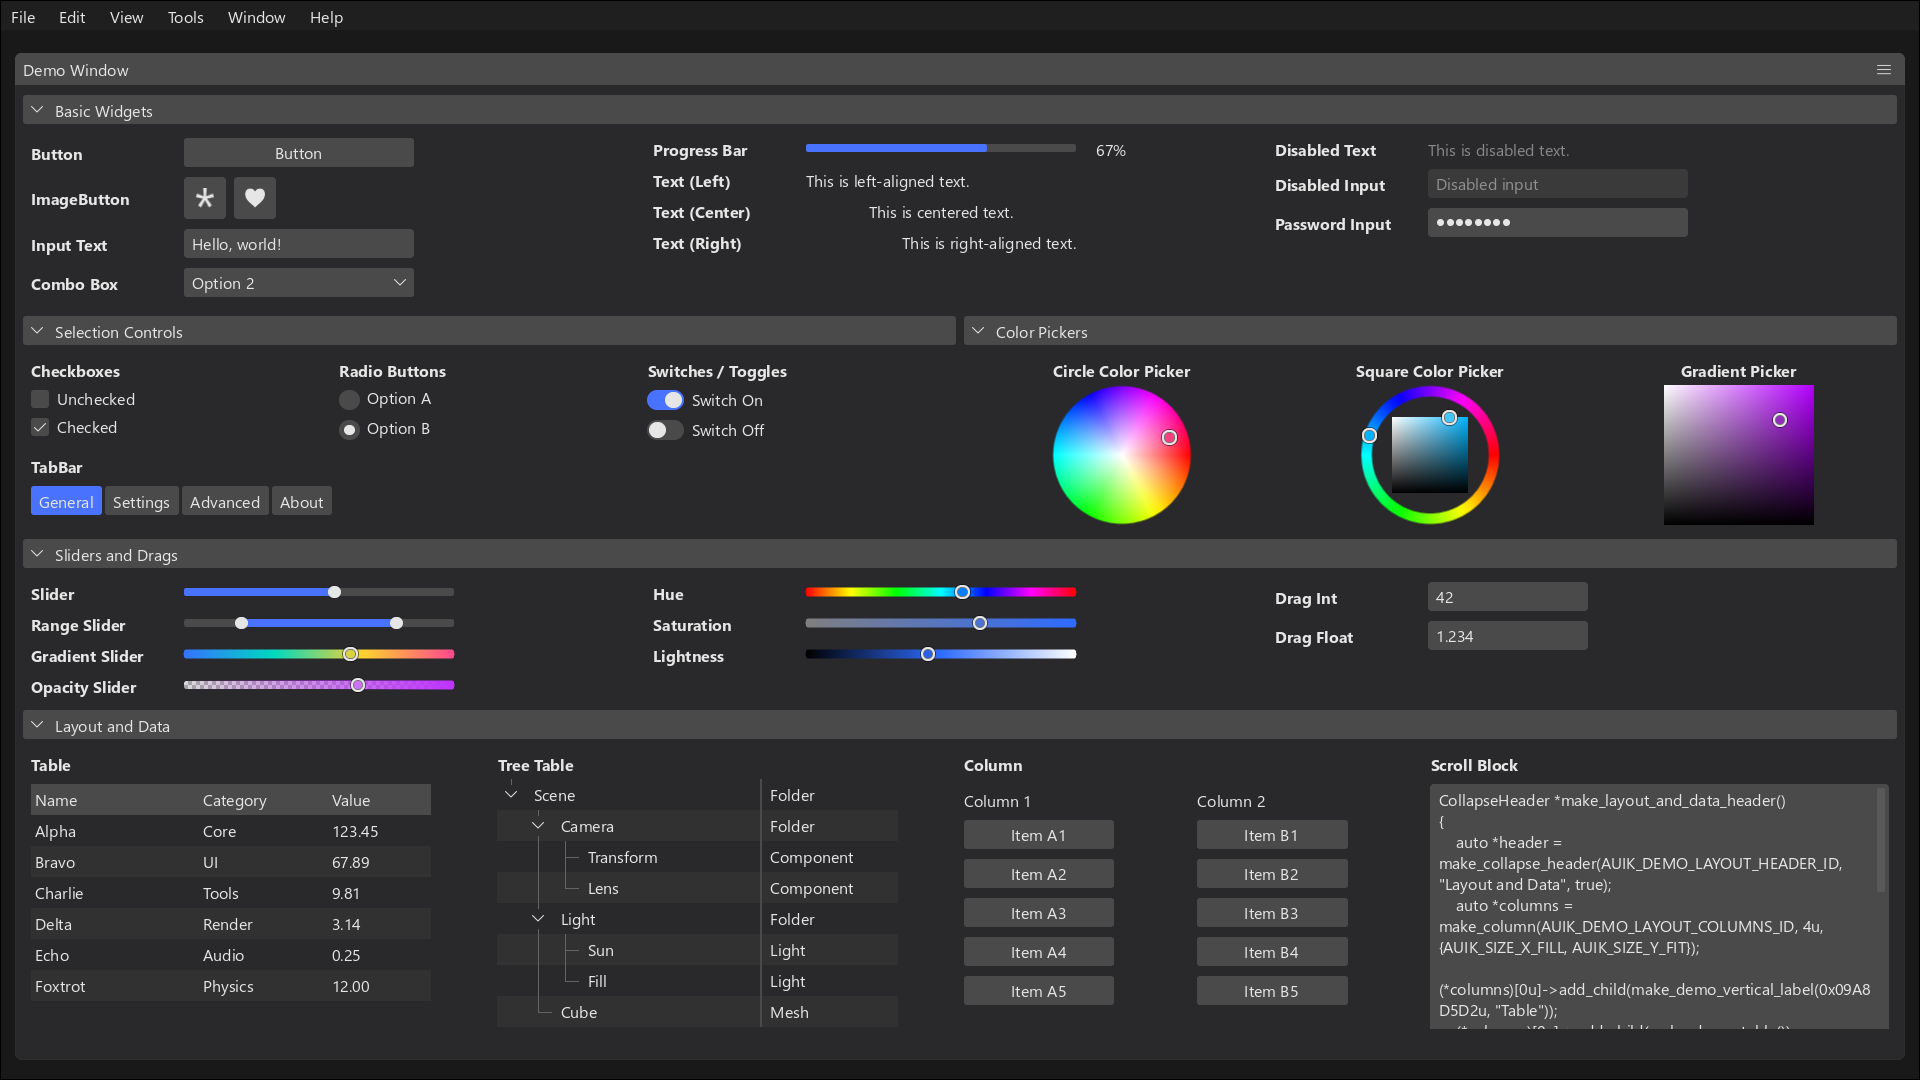
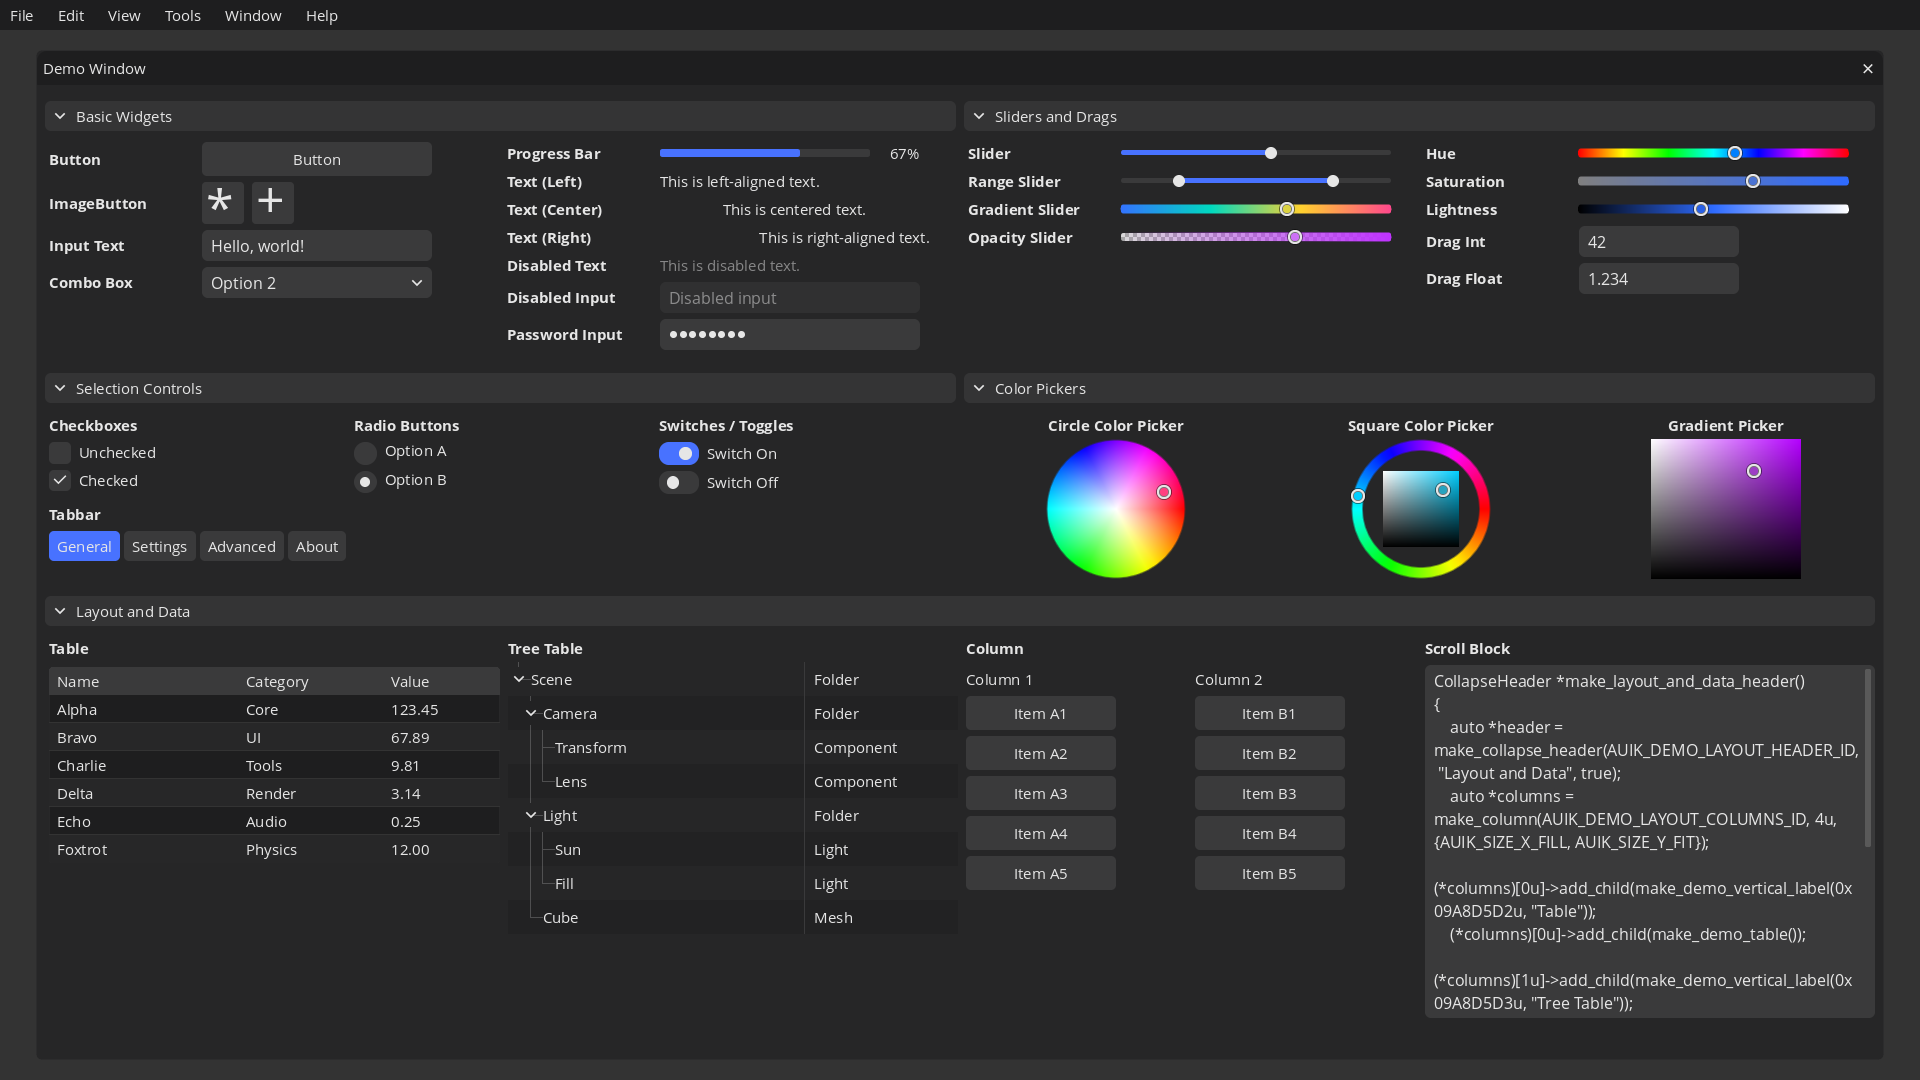
Adapt the widget showcase to Auik ASD styles

diff --git a/src/demo.cpp b/src/demo.cpp
@@ -23,7 +23,6 @@
 #include <auik/widgets/window.hpp>
 
 #define AUIK_DEMO_MAIN_MENU_BAR_ID     0x09A8D50Du
-#define AUIK_DEMO_WINDOW_ID            0x09A8D50E
 #define AUIK_DEMO_BASIC_HEADER_ID      0x09A8D510u
 #define AUIK_DEMO_BASIC_COLUMNS_ID     0x09A8D511u
 #define AUIK_DEMO_SECTION_COLUMNS_ID   0x09A8D512u
@@ -36,7 +35,7 @@
 #define AUIK_DEMO_LAYOUT_HEADER_ID     0x09A8D519u
 #define AUIK_DEMO_LAYOUT_COLUMNS_ID    0x09A8D51Au
 #define AUIK_DEMO_LABEL_WIDTH          145.0f
-#define AUIK_DEMO_ROW_INLINE_SPACING   8.0f
+#define AUIK_DEMO_CONTROLS_COLUMNS_ID  0xE5404971u
 
 namespace auik
 {
@@ -62,7 +61,7 @@ namespace auik
         {
             auto *row = make_block(id);
             row->set_size({270.0f, AUIK_SIZE_Y_FIT});
-            row->add_child(make_text(id ^ AUIK_TAG_TEXT, text),
+            row->add_child(make_text(id ^ AUIK_TAG_TEXT, text, AUIK_SIZE_FIT),
                            make_layout_flags(ChildLayout::block, align, VAlign::center));
             return row;
         }
@@ -78,8 +77,8 @@ namespace auik
         void add_vertical_labeled_control(Block *slot, u32 label_id, StringView label, Widget *control,
                                           HAlign label_align = HAlign::left)
         {
-            const auto label_layout = make_layout_flags(ChildLayout::block, label_align, VAlign::center);
-            const auto control_layout = make_layout_flags(ChildLayout::block, label_align, VAlign::center);
+            const auto label_layout = make_layout_flags(ChildLayout::block, label_align, VAlign::top);
+            const auto control_layout = make_layout_flags(ChildLayout::block, label_align, VAlign::top);
             slot->add_child(make_demo_vertical_label(label_id, label), label_layout);
             slot->add_child(control, control_layout);
         }
@@ -88,7 +87,7 @@ namespace auik
         {
             const auto inline_center = make_layout_flags(ChildLayout::inline_, HAlign::left, VAlign::center);
             const auto center = make_layout_flags(ChildLayout::block, HAlign::left, VAlign::center);
-            auto *label = make_text(text_id, text, AUIK_SIZE_FIT, default_text_layout_flags(), TextAnchorY::middle);
+            auto *label = make_text(text_id, text, AUIK_SIZE_FIT);
             label->set_tight_content_height(true);
             slot->add_child(control, inline_center);
             slot->add_child(label, center);
@@ -121,7 +120,7 @@ namespace auik
             const auto inline_center = make_layout_flags(ChildLayout::inline_, HAlign::left, VAlign::center);
             const auto center = make_layout_flags(ChildLayout::block, HAlign::left, VAlign::center);
             slot->add_child(make_demo_label(0x09A8D533u, "Progress Bar"), inline_center);
-            slot->add_child(make_progress_bar(0x09A8D531u, 0.67f, 0.0f, 1.0f, 270.0f), inline_center);
+            slot->add_child(make_progress_bar(0x09A8D531u, 0.67f, 0.0f, 1.0f, 210.0f), inline_center);
             auto *progress_percent = make_text(0x09A8D532u, "67%", {48.0f, AUIK_SIZE_Y_FIT});
             progress_percent->set_style_tag(AUIK_STYLE_TAG_PROGRESS_PERCENT);
             slot->add_child(progress_percent, center);
@@ -151,10 +150,10 @@ namespace auik
         CollapseHeader *make_basic_widgets_header()
         {
             auto *header = make_collapse_header(AUIK_DEMO_BASIC_HEADER_ID, "Basic Widgets", true);
-            auto *columns = make_column(AUIK_DEMO_BASIC_COLUMNS_ID, 3u, {AUIK_SIZE_X_FILL, AUIK_SIZE_Y_FIT});
+            auto *columns = make_column(AUIK_DEMO_BASIC_COLUMNS_ID, 2u, {AUIK_SIZE_X_FILL, AUIK_SIZE_Y_FIT});
             make_basic_controls_column((*columns)[0u]);
             make_basic_status_column((*columns)[1u]);
-            make_basic_disabled_column((*columns)[2u]);
+            make_basic_disabled_column((*columns)[1u]);
             header->add_child(columns);
             return header;
         }
@@ -189,23 +188,25 @@ namespace auik
             make_selection_switch_column((*columns)[2u]);
             header->add_child(columns);
 
-            add_vertical_labeled_control(
-                header, 0x09A8D56Fu, "Tabbar",
-                make_tabbar(0x09A8D570u, {"General", "Settings", "Advanced", "About"}, TabbarFlagBits::none, {AUIK_SIZE_X_FILL, AUIK_SIZE_Y_FIT}));
+            add_vertical_labeled_control(header, 0x09A8D56Fu, "Tabbar",
+                                         make_tabbar(0x09A8D570u, {"General", "Settings", "Advanced", "About"},
+                                                     TabbarFlagBits::none, {AUIK_SIZE_X_FILL, AUIK_SIZE_Y_FIT}));
             return header;
         }
 
         void add_color_picker_column(Block *slot, u32 label_id, StringView label, Widget *picker)
-        { add_vertical_labeled_control(slot, label_id, label, picker, HAlign::center); }
+        {
+            add_vertical_labeled_control(slot, label_id, label, picker, HAlign::center);
+        }
 
         CollapseHeader *make_color_pickers_header()
         {
             auto *header = make_collapse_header(AUIK_DEMO_COLOR_HEADER_ID, "Color Pickers", true);
             auto *columns = make_column(AUIK_DEMO_COLOR_COLUMNS_ID, 3u, {AUIK_SIZE_X_FILL, AUIK_SIZE_Y_FIT});
             add_color_picker_column((*columns)[0u], 0x09A8D580u, "Circle Color Picker",
-                                    make_circle_color_picker(0x09A8D581u, 140.0f, {1.0f, 0.25f, 0.5f, 1.0f}));
+                                    make_circle_color_picker(0x09A8D581u, {1.0f, 0.25f, 0.5f, 1.0f}, 140.0f));
             add_color_picker_column((*columns)[1u], 0x09A8D582u, "Square Color Picker",
-                                    make_square_color_picker(0x09A8D583u, 140.0f, {0.25f, 0.78f, 1.0f, 1.0f}));
+                                    make_square_color_picker(0x09A8D583u, {0.25f, 0.78f, 1.0f, 1.0f}, 140.0f));
             add_color_picker_column(
                 (*columns)[2u], 0x09A8D584u, "Gradient Picker",
                 make_gradient_color_picker(0x09A8D585u, {0.78f, 0.25f, 1.0f, 1.0f}, {150.0f, 140.0f}));
@@ -266,24 +267,22 @@ namespace auik
         {
             add_labeled_row(slot, 0x09A8D59Eu, "Drag Int",
                             make_drag_int(0x09A8D59Fu, 42, 0, 100, 1.0f, {160.0f, AUIK_SIZE_Y_FIT}));
-            add_labeled_row(
-                slot, 0x09A8D5A0u, "Drag Float",
-                make_drag_float(0x09A8D5A1u, 1.234f, 0.0f, 10.0f, 0.01f, {160.0f, AUIK_SIZE_Y_FIT}));
+            add_labeled_row(slot, 0x09A8D5A0u, "Drag Float",
+                            make_drag_float(0x09A8D5A1u, 1.234f, 0.0f, 10.0f, 0.01f, {160.0f, AUIK_SIZE_Y_FIT}));
         }
 
         CollapseHeader *make_sliders_and_drags_header()
         {
             auto *header = make_collapse_header(AUIK_DEMO_SLIDERS_HEADER_ID, "Sliders and Drags", true);
-            auto *columns = make_column(AUIK_DEMO_SLIDERS_COLUMNS_ID, 3u, {AUIK_SIZE_X_FILL, AUIK_SIZE_Y_FIT});
+            auto *columns = make_column(AUIK_DEMO_SLIDERS_COLUMNS_ID, 2u, {AUIK_SIZE_X_FILL, AUIK_SIZE_Y_FIT});
             make_sliders_column((*columns)[0u]);
             make_hsl_sliders_column((*columns)[1u]);
-            make_drags_column((*columns)[2u]);
+            make_drags_column((*columns)[1u]);
             header->add_child(columns);
             return header;
         }
 
-        Text *make_demo_cell_text(u32 id, StringView text)
-        { return make_text(id, text, AUIK_SIZE_FIT, default_text_layout_flags(), TextAnchorY::middle); }
+        Text *make_demo_cell_text(u32 id, StringView text) { return make_text(id, text, AUIK_SIZE_FIT); }
 
         Table::Cell make_demo_table_cell(u32 id, StringView text)
         {
@@ -306,38 +305,51 @@ namespace auik
                 {make_demo_table_cell(0x09A8D5D8u, "Foxtrot"), make_demo_table_cell(0x09A8D5DBu, "Physics"),
                  make_demo_table_cell(0x09A8D5DCu, "12.00")},
             };
-            auto *table = make_table(0x09A8D5BCu, std::move(rows), {400.0f, AUIK_SIZE_Y_FIT});
-            table->set_header({make_demo_table_cell(0x09A8D5BDu, "Name"),
-                               make_demo_table_cell(0x09A8D5BEu, "Category"),
+            auto *table = make_table(0x09A8D5BCu, std::move(rows), {AUIK_SIZE_X_FILL, AUIK_SIZE_Y_FIT});
+            table->set_header({make_demo_table_cell(0x09A8D5BDu, "Name"), make_demo_table_cell(0x09A8D5BEu, "Category"),
                                make_demo_table_cell(0x09A8D5BFu, "Value")});
-            table->set_alternating_rows(true);
+            for (size_t row = 1; row < table->row_count(); row += 2)
+                for (size_t column = 0; column < table->column_count(); ++column)
+                    table->set_cell_style_tag(row, column, AUIK_STYLE_TAG_DEMO_TABLE_STRIPED_CELL);
             table->set_column_settings({{TableColumnSizing::stretch, 1.3f, 80.0f},
                                         {TableColumnSizing::stretch, 1.0f, 70.0f},
                                         {TableColumnSizing::stretch, 0.8f, 60.0f}});
             return table;
         }
 
+        DrawBlock *make_demo_tree_cell(u32 id, StringView text, bool value_column = false)
+        {
+            auto *cell = make_draw_block(id);
+            auto *label = make_demo_cell_text(AUIK_TAG_TEXT, text);
+            if (value_column) label->set_style_tag(AUIK_STYLE_TAG_DEMO_TREE_VALUE);
+            cell->add_child(label);
+            return cell;
+        }
+
         TableTree *make_demo_tree_table()
         {
-            auto *tree = make_table_tree(0x09A8D5C0u, {400.0f, AUIK_SIZE_Y_FIT});
+            auto *tree = make_table_tree(0x09A8D5C0u, {AUIK_SIZE_X_FILL, AUIK_SIZE_Y_FIT});
+            tree->set_collapse_icon_style_tag(AUIK_STYLE_TAG_DEMO_TREE_COLLAPSE_ICON);
             tree->set_alternating_rows(true);
             tree->set_column_settings(
                 {{TableColumnSizing::stretch, 1.45f, 130.0f}, {TableColumnSizing::stretch, 0.75f, 80.0f}});
 
-            const size_t scene =
-                tree->add_node(make_demo_cell_text(0x09A8D5C1u, "Scene"), {make_demo_cell_text(0x09A8D5E0u, "Folder")});
-            const size_t camera = tree->add_node(make_demo_cell_text(0x09A8D5C2u, "Camera"),
-                                                 {make_demo_cell_text(0x09A8D5E1u, "Folder")}, scene);
-            tree->add_node(make_demo_cell_text(0x09A8D5C3u, "Transform"),
-                           {make_demo_cell_text(0x09A8D5E2u, "Component")}, camera);
-            tree->add_node(make_demo_cell_text(0x09A8D5C4u, "Lens"), {make_demo_cell_text(0x09A8D5E3u, "Component")},
-                           camera);
-            const size_t light = tree->add_node(make_demo_cell_text(0x09A8D5C5u, "Light"),
-                                                {make_demo_cell_text(0x09A8D5E4u, "Folder")}, scene);
-            tree->add_node(make_demo_cell_text(0x09A8D5C6u, "Sun"), {make_demo_cell_text(0x09A8D5E5u, "Light")}, light);
-            tree->add_node(make_demo_cell_text(0x09A8D5C7u, "Fill"), {make_demo_cell_text(0x09A8D5E6u, "Light")},
+            const size_t scene = tree->add_node(make_demo_tree_cell(0x09A8D5C1u, "Scene"),
+                                                {make_demo_tree_cell(0x09A8D5E0u, "Folder", true)});
+            const size_t camera = tree->add_node(make_demo_tree_cell(0x09A8D5C2u, "Camera"),
+                                                 {make_demo_tree_cell(0x09A8D5E1u, "Folder", true)}, scene);
+            tree->add_node(make_demo_tree_cell(0x09A8D5C3u, "Transform"),
+                           {make_demo_tree_cell(0x09A8D5E2u, "Component", true)}, camera);
+            tree->add_node(make_demo_tree_cell(0x09A8D5C4u, "Lens"),
+                           {make_demo_tree_cell(0x09A8D5E3u, "Component", true)}, camera);
+            const size_t light = tree->add_node(make_demo_tree_cell(0x09A8D5C5u, "Light"),
+                                                {make_demo_tree_cell(0x09A8D5E4u, "Folder", true)}, scene);
+            tree->add_node(make_demo_tree_cell(0x09A8D5C6u, "Sun"), {make_demo_tree_cell(0x09A8D5E5u, "Light", true)},
                            light);
-            tree->add_node(make_demo_cell_text(0x09A8D5E7u, "Cube"), {make_demo_cell_text(0x09A8D5E8u, "Mesh")}, scene);
+            tree->add_node(make_demo_tree_cell(0x09A8D5C7u, "Fill"), {make_demo_tree_cell(0x09A8D5E6u, "Light", true)},
+                           light);
+            tree->add_node(make_demo_tree_cell(0x09A8D5E7u, "Cube"), {make_demo_tree_cell(0x09A8D5E8u, "Mesh", true)},
+                           scene);
             return tree;
         }
 
@@ -398,7 +410,7 @@ namespace auik
         }
     } // namespace
 
-    AUIK_DEMO_EXPORT bool configure_demo_icons(Font *font, f32 dpi)
+    bool configure_demo_icons(Font *font, f32 dpi)
     {
         if (!font) return false;
 
@@ -409,8 +421,7 @@ namespace auik
                                                .codepoints = {codepoint},
                                                .ids = {id},
                                                .load_flags = font->load_flags(),
-                                               .render_mode = font->render_mode(),
-                                               .display_size = {20.0f, 20.0f}};
+                                               .render_mode = font->render_mode()};
                 if (load_font_icons(font, &icon)) return true;
             }
             return false;
@@ -420,19 +431,25 @@ namespace auik
                load_icon(AUIK_DEMO_ICON_HEART, {0x2665u, 0x2661u, 0x002Bu});
     }
 
-    AUIK_DEMO_EXPORT MenuBar *make_demo_main_menu_bar()
+    MenuBar *make_demo_main_menu_bar()
     {
-        return auik::make_main_menu_bar(AUIK_DEMO_MAIN_MENU_BAR_ID,
-                                        {"File", "Edit", "View", "Tools", "Window", "Help"});
+        return make_main_menu_bar(AUIK_DEMO_MAIN_MENU_BAR_ID, {"File", "Edit", "View", "Tools", "Window", "Help"});
     }
 
-    AUIK_DEMO_EXPORT Window *make_demo_window()
+    Window *make_demo_window() { return make_demo_window({{14.0f, 84.0f}, {AUIK_SIZE_X_FILL, AUIK_SIZE_Y_FIT}}); }
+
+    Window *make_demo_window(const amal::rect &bounds)
     {
-        auto *demo_window = auik::make_decorated_window(AUIK_DEMO_WINDOW_ID, "Demo Window",
-                                                        {{14.0f, 84.0f}, {AUIK_SIZE_X_FILL, AUIK_SIZE_Y_FIT}});
-        demo_window->add_child(make_basic_widgets_header());
+        constexpr auto flags = WidgetFlagBits::visible | WidgetFlagBits::attachable | WidgetFlagBits::hittable;
+        auto *demo_window =
+            acul::alloc<Window>(AUIK_DEMO_WINDOW_ID, "Demo Window", bounds,
+                                get_fixed_window_flags() | WindowFlagBits::movable | WindowFlagBits::closable, flags);
+        demo_window->set_window_style_tag(AUIK_STYLE_TAG_DEMO_WINDOW);
+        auto *controls = make_column(AUIK_DEMO_CONTROLS_COLUMNS_ID, 2u, {AUIK_SIZE_X_FILL, AUIK_SIZE_Y_FIT});
+        (*controls)[0u]->add_child(make_basic_widgets_header());
+        (*controls)[1u]->add_child(make_sliders_and_drags_header());
+        demo_window->add_child(controls);
         demo_window->add_child(make_selection_and_color_section());
-        demo_window->add_child(make_sliders_and_drags_header());
         demo_window->add_child(make_layout_and_data_header());
         return demo_window;
     }

diff --git a/include/auik/demo.hpp b/include/auik/demo.hpp
@@ -7,10 +7,12 @@
 
 #define AUIK_DEMO_ICON_STAR  0x62C9D04Du
 #define AUIK_DEMO_ICON_HEART 0xB4B57F0Du
+#define AUIK_DEMO_WINDOW_ID 0x09A8D50Eu
 
 namespace auik
 {
     AUIK_DEMO_EXPORT bool configure_demo_icons(Font *font, f32 dpi = 1.0f);
     AUIK_DEMO_EXPORT MenuBar *make_demo_main_menu_bar();
     AUIK_DEMO_EXPORT Window *make_demo_window();
+    AUIK_DEMO_EXPORT Window *make_demo_window(const amal::rect &bounds);
 }

diff --git a/README.md b/README.md
@@ -10,35 +10,35 @@
 - layout and data widgets
 
 ## Screenshots
-<a href="./screenshots/demo.png">
-    <img src="./screenshots/demo.png" alt="screenshot" width="350"/>
-</a>
+
+[<img src="./screenshots/demo.png" alt="screenshot" width="350"/>](./screenshots/demo.png)
 
 ## Integration
 
-Add both Auik and the demo module before compiling the final host theme:
+Add Auik and the demo module as sibling directories before compiling the host's ASD theme:
 
 ```cmake
 add_subdirectory(modules/auik)
 add_subdirectory(modules/auik-demo)
 
-compile_auik_css_theme("${AUIK_BASE_THEME}"
+compile_auik_asd_theme("${AUIK_BASE_THEME}"
+    APP_IDS_CSV "${CMAKE_CURRENT_SOURCE_DIR}/src/ui/style_tags_id.csv"
     INPUT_FOLDERS
-        "${AUIK_DEMO_CSS_DIR}"
+        "${AUIK_DEMO_STYLE_DIR}"
         "${CMAKE_CURRENT_SOURCE_DIR}/src/ui"
 )
 
-target_sources(my_app PRIVATE ${AUIK_CSS_SRC})
-target_include_directories(my_app PRIVATE ${AUIK_CSS_INCLUDE_DIR})
+target_sources(my_app PRIVATE ${AUIK_ASD_SRC})
+target_include_directories(my_app PRIVATE ${AUIK_ASD_INCLUDE_DIR})
 target_link_libraries(my_app PRIVATE auik auik-demo)
-add_dependencies(my_app ${AUIK_CSS_TARGET})
+add_dependencies(my_app ${AUIK_ASD_TARGET})
 ```
 
-`AUIK_DEMO_CSS_DIR` contains demo-specific styles and public style ids. Put it before application CSS folders if the application should be able to override demo styles.
+`AUIK_DEMO_STYLE_DIR` contains the demo's `theme.asd` and `style_tags_id.csv`. The module registers its own style IDs when you call `add_subdirectory`. If the host has no styles of its own, omit `APP_IDS_CSV` and keep only `AUIK_DEMO_STYLE_DIR` in `INPUT_FOLDERS`.
 
 ## Runtime Setup
 
-Include the public header:
+Load the generated host theme before creating the demo widgets. Include the public header:
 
 ```cpp
 #include <auik/demo.hpp>
@@ -72,7 +72,6 @@ Attach those widgets to the same root/window tree used by the host application. 
 ## Notes
 
 - The demo window is built from existing Auik widgets only.
-- If the host theme does not include `AUIK_DEMO_CSS_DIR`, demo labels will still render, but demo-specific styling such as bold labels will be missing.
 
 ## License
 This project is licensed under the  [MIT License](LICENSE).
